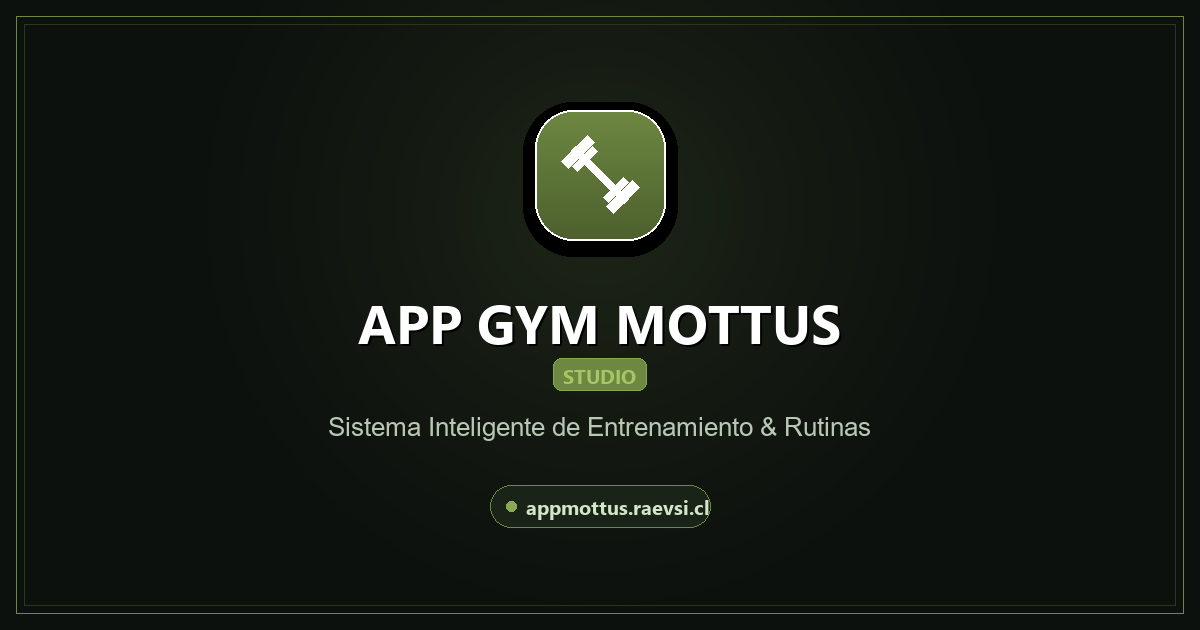
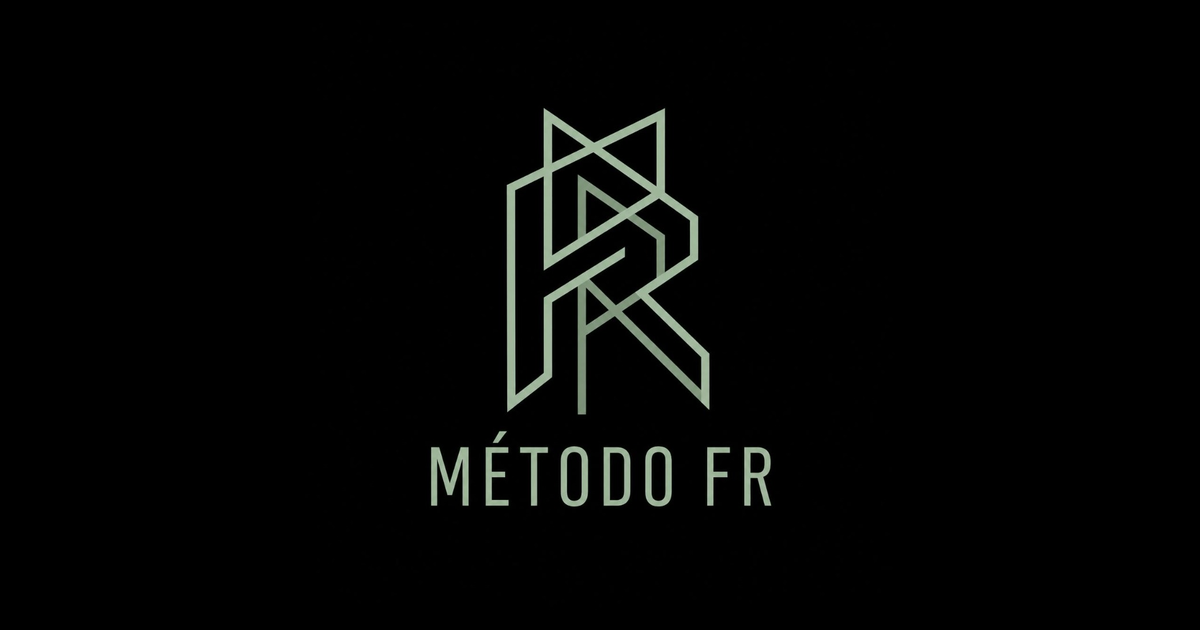
feat: initialize frontend application with core views, navigation, and messaging support

Changed region(s): [[0.2775, 0.0, 0.74, 0.8444]]

diff --git a/frontend/index.html b/frontend/index.html
@@ -1,54 +1,62 @@
 <!doctype html>
 <html lang="es">
-  <head>
-    <meta charset="UTF-8" />
-    <meta name="viewport" content="width=device-width, initial-scale=1.0, viewport-fit=cover" />
-    <meta name="mobile-web-app-capable" content="yes" />
-    <meta name="apple-mobile-web-app-capable" content="yes" />
-    <meta name="apple-mobile-web-app-status-bar-style" content="black-translucent" />
 
-    <!-- Primary Meta Tags -->
-    <title>App Gym Mottus - Sistema Inteligente de Entrenamiento &amp; Rutinas</title>
-    <meta name="title" content="App Gym Mottus - Sistema Inteligente de Entrenamiento &amp; Rutinas" />
-    <meta name="description" content="App Gym Mottus - Sistema Inteligente de Entrenamiento, Rutinas Personalizadas y Métricas Deportivas en Mottus Studio." />
-    <meta name="keywords" content="Mottus, Gym, Rutinas, Entrenamiento, Fitness, Ejercicios, Studio, Gimnasio" />
-    <meta name="author" content="Mottus Studio" />
-    <meta name="robots" content="index, follow" />
-    <meta name="theme-color" content="#4D602E" />
+<head>
+  <meta charset="UTF-8" />
+  <meta name="viewport" content="width=device-width, initial-scale=1.0, viewport-fit=cover" />
+  <meta name="mobile-web-app-capable" content="yes" />
+  <meta name="apple-mobile-web-app-capable" content="yes" />
+  <meta name="apple-mobile-web-app-status-bar-style" content="black-translucent" />
 
-    <!-- Favicon & Icons -->
-    <link rel="icon" type="image/svg+xml" href="/favicon.svg" />
-    <link rel="apple-touch-icon" href="/favicon.svg" />
+  <!-- Primary Meta Tags -->
+  <title>Método FR - Sistema Inteligente de Entrenamiento &amp; Rutinas</title>
+  <meta name="title" content="Método FR - Sistema Inteligente de Entrenamiento &amp; Rutinas" />
+  <meta name="description"
+    content="Método FR - Sistema Inteligente de Entrenamiento, Rutinas Personalizadas y Métricas Deportivas." />
+  <meta name="keywords" content="Método FR, Fitness, Rutinas, Entrenamiento, Ejercicios, Studio, Gimnasio" />
+  <meta name="author" content="Método FR" />
+  <meta name="robots" content="index, follow" />
+  <meta name="theme-color" content="#4D602E" />
 
-    <!-- Open Graph / WhatsApp / Facebook / LinkedIn -->
-    <meta property="og:type" content="website" />
-    <meta property="og:url" content="https://appmottus.raevsi.cl/" />
-    <meta property="og:title" content="App Gym Mottus" />
-    <meta property="og:site_name" content="App Gym Mottus" />
-    <meta property="og:description" content="Sistema Inteligente de Entrenamiento, Rutinas Personalizadas y Seguimiento Deportivo - Mottus Studio." />
-    <meta property="og:image" content="https://appmottus.raevsi.cl/og-image.png" />
-    <meta property="og:image:secure_url" content="https://appmottus.raevsi.cl/og-image.png" />
-    <meta property="og:image:type" content="image/png" />
-    <meta property="og:image:width" content="1200" />
-    <meta property="og:image:height" content="630" />
-    <meta property="og:image:alt" content="App Gym Mottus Studio" />
-    <meta property="og:locale" content="es_CL" />
+  <!-- Favicon & Icons -->
+  <link rel="icon" type="image/png" sizes="32x32" href="/favicon-32x32.png" />
+  <link rel="icon" type="image/png" sizes="64x64" href="/favicon.png" />
+  <link rel="shortcut icon" href="/favicon.ico" />
+  <link rel="apple-touch-icon" sizes="180x180" href="/apple-touch-icon.png" />
 
-    <!-- Twitter / X -->
-    <meta name="twitter:card" content="summary_large_image" />
-    <meta name="twitter:url" content="https://appmottus.raevsi.cl/" />
-    <meta name="twitter:title" content="App Gym Mottus" />
-    <meta name="twitter:description" content="Sistema Inteligente de Entrenamiento, Rutinas Personalizadas y Seguimiento Deportivo - Mottus Studio." />
-    <meta name="twitter:image" content="https://appmottus.raevsi.cl/og-image.png" />
-    <meta name="twitter:image:alt" content="App Gym Mottus Studio" />
+  <!-- Open Graph / WhatsApp / Facebook / LinkedIn -->
+  <meta property="og:type" content="website" />
+  <meta property="og:url" content="https://appmottus.raevsi.cl/" />
+  <meta property="og:title" content="Método FR" />
+  <meta property="og:site_name" content="Método FR" />
+  <meta property="og:description"
+    content="Sistema Inteligente de Entrenamiento, Rutinas Personalizadas y Seguimiento Deportivo - Método FR." />
+  <meta property="og:image" content="https://appmottus.raevsi.cl/og-image.png" />
+  <meta property="og:image:secure_url" content="https://appmottus.raevsi.cl/og-image.png" />
+  <meta property="og:image:type" content="image/png" />
+  <meta property="og:image:width" content="1200" />
+  <meta property="og:image:height" content="630" />
+  <meta property="og:image:alt" content="Método FR - Sistema Inteligente de Entrenamiento" />
+  <meta property="og:locale" content="es_CL" />
 
-    <!-- Mobile & PWA tags -->
-    <meta name="apple-mobile-web-app-capable" content="yes" />
-    <meta name="apple-mobile-web-app-status-bar-style" content="black-translucent" />
-    <meta name="apple-mobile-web-app-title" content="App Gym Mottus" />
-  </head>
-  <body>
-    <div id="root"></div>
-    <script type="module" src="/src/main.jsx"></script>
-  </body>
+  <!-- Twitter / X -->
+  <meta name="twitter:card" content="summary_large_image" />
+  <meta name="twitter:url" content="https://appmottus.raevsi.cl/" />
+  <meta name="twitter:title" content="Método FR" />
+  <meta name="twitter:description"
+    content="Sistema Inteligente de Entrenamiento, Rutinas Personalizadas y Seguimiento Deportivo - Método FR." />
+  <meta name="twitter:image" content="https://appmottus.raevsi.cl/og-image.png" />
+  <meta name="twitter:image:alt" content="Método FR" />
+
+  <!-- Mobile & PWA tags -->
+  <meta name="apple-mobile-web-app-capable" content="yes" />
+  <meta name="apple-mobile-web-app-status-bar-style" content="black-translucent" />
+  <meta name="apple-mobile-web-app-title" content="Método FR" />
+</head>
+
+<body>
+  <div id="root"></div>
+  <script type="module" src="/src/main.jsx"></script>
+</body>
+
 </html>

diff --git a/frontend/src/views/RegisterView.jsx b/frontend/src/views/RegisterView.jsx
@@ -75,7 +75,7 @@ export const RegisterView = ({ token, onRegistered }) => {
   if (validating) {
     return (
       <div style={{ minHeight: '100vh', display: 'flex', alignItems: 'center', justifyContent: 'center', backgroundColor: 'var(--md-sys-color-background)' }}>
-        <p style={{ color: 'var(--md-sys-color-tertiary)' }}>Verificando enlace de invitación Mottus Gym...</p>
+        <p style={{ color: 'var(--md-sys-color-tertiary)' }}>Verificando enlace de invitación Método FR...</p>
       </div>
     );
   }
@@ -102,7 +102,7 @@ export const RegisterView = ({ token, onRegistered }) => {
           <CheckCircle2 size={54} color="var(--md-sys-color-secondary)" style={{ margin: '0 auto 16px' }} />
           <h2 style={{ fontSize: '24px', fontWeight: 800, color: '#FFF', marginBottom: '8px' }}>¡Registro Completado!</h2>
           <p style={{ fontSize: '15px', color: 'var(--md-sys-color-tertiary)', marginBottom: '16px' }}>
-            Bienvenido a <strong>Mottus Gym</strong>, {name}. Tu cuenta ha sido activada con éxito.
+            Bienvenido a <strong>Método FR</strong>, {name}. Tu cuenta ha sido activada con éxito.
           </p>
           <span style={{ fontSize: '13px', color: 'var(--md-sys-color-on-surface-variant)' }}>
             Redirigiendo a la pantalla de inicio de sesión...
@@ -118,20 +118,22 @@ export const RegisterView = ({ token, onRegistered }) => {
     }}>
       <div className="auth-card" style={{ maxWidth: '560px' }}>
         <div style={{ textAlign: 'center', marginBottom: '28px' }}>
-          <div style={{
-            width: '56px',
-            height: '56px',
-            borderRadius: '16px',
-            backgroundColor: 'var(--md-sys-color-primary)',
-            display: 'inline-flex',
-            alignItems: 'center',
-            justifyContent: 'center',
-            marginBottom: '12px'
-          }}>
-            <Dumbbell size={30} color="#FFF" />
-          </div>
+          <img
+            src="/logo-metodo-fr.png"
+            alt="Logo Método FR"
+            style={{
+              width: '74px',
+              height: '74px',
+              borderRadius: '16px',
+              objectFit: 'contain',
+              boxShadow: '0 4px 20px rgba(0, 0, 0, 0.6), 0 0 16px rgba(110, 136, 66, 0.3)',
+              border: '1px solid rgba(137, 168, 84, 0.3)',
+              backgroundColor: '#000',
+              marginBottom: '12px'
+            }}
+          />
           <h1 style={{ fontSize: '24px', fontWeight: 800, color: '#FFF' }}>
-            Bienvenido a Mottus Gym
+            Bienvenido a Método FR
           </h1>
           <p style={{ fontSize: '13.5px', color: 'var(--md-sys-color-tertiary)', marginTop: '4px' }}>
             Completa tus datos para activar tu cuenta de entrenamiento
@@ -211,7 +213,7 @@ export const RegisterView = ({ token, onRegistered }) => {
               <input
                 type="email"
                 required
-                placeholder="ejemplo@mottus.cl"
+                placeholder="ejemplo@email.com"
                 value={email}
                 onChange={(e) => setEmail(e.target.value)}
                 style={inputStyle}

diff --git a/frontend/src/views/LoginView.jsx b/frontend/src/views/LoginView.jsx
@@ -40,43 +40,29 @@ export const LoginView = () => {
     }}>
       <div className="auth-card">
         {/* Header Branding */}
-        <div style={{ textAlign: 'center', marginBottom: '32px' }}>
-          <div style={{
-            width: '60px',
-            height: '60px',
-            borderRadius: '18px',
-            background: 'linear-gradient(135deg, #6E8842 0%, #4D602E 100%)',
-            display: 'inline-flex',
-            alignItems: 'center',
-            justifyContent: 'center',
-            boxShadow: '0 0 24px rgba(110, 136, 66, 0.5), inset 0 1px 1px rgba(255, 255, 255, 0.3)',
-            marginBottom: '16px'
-          }}>
-            <Dumbbell size={32} color="#FFFFFF" />
-          </div>
+        <div style={{ textAlign: 'center', marginBottom: '28px' }}>
+          <img
+            src="/logo-metodo-fr.png"
+            alt="Logo Método FR"
+            style={{
+              width: '90px',
+              height: '90px',
+              borderRadius: '20px',
+              objectFit: 'contain',
+              boxShadow: '0 8px 32px rgba(0, 0, 0, 0.7), 0 0 24px rgba(110, 136, 66, 0.35)',
+              border: '1px solid rgba(137, 168, 84, 0.35)',
+              backgroundColor: '#000',
+              marginBottom: '16px'
+            }}
+          />
           <div style={{ display: 'flex', alignItems: 'center', justifyContent: 'center', gap: '8px' }}>
             <h1 style={{ fontSize: '26px', fontWeight: 800, color: '#FFF', letterSpacing: '-0.02em' }}>
-              MOTTUS
+              MÉTODO FR
             </h1>
-            <span style={{
-              fontSize: '11px',
-              fontWeight: 700,
-              color: 'var(--md-sys-color-primary-light)',
-              letterSpacing: '0.12em',
-              backgroundColor: 'rgba(110, 136, 66, 0.15)',
-              padding: '2px 8px',
-              borderRadius: '6px',
-              border: '1px solid rgba(110, 136, 66, 0.3)'
-            }}>
-              STUDIO
-            </span>
           </div>
           <p style={{ fontSize: '13.5px', color: 'var(--md-sys-color-tertiary)', marginTop: '6px' }}>
             Sistema Inteligente de Entrenamiento & Rutinas
           </p>
-          <span style={{ fontSize: '11px', color: 'var(--md-sys-color-on-surface-variant)', display: 'block', marginTop: '2px' }}>
-            appmottus.raevsi.cl
-          </span>
         </div>
 
         {/* Aviso de Cierre de Sesión por Inactividad (30 min) */}
@@ -147,7 +133,7 @@ export const LoginView = () => {
             <input
               type="text"
               required
-              placeholder="Ej: 12345678-9 o usuario@mottus.cl"
+              placeholder="Ej: 12345678-9 o tu email"
               value={identifier}
               onChange={(e) => setIdentifier(e.target.value)}
               style={{

diff --git a/frontend/src/components/Navbar.jsx b/frontend/src/components/Navbar.jsx
@@ -134,39 +134,28 @@ export const Navbar = ({ activeTab, setActiveTab }) => {
       }}>
         {/* Brand */}
         <div style={{ display: 'flex', alignItems: 'center', gap: '10px' }}>
-          <div style={{
-            width: '38px',
-            height: '38px',
-            borderRadius: '12px',
-            background: 'linear-gradient(135deg, #6E8842 0%, #4D602E 100%)',
-            display: 'flex',
-            alignItems: 'center',
-            justifyContent: 'center',
-            boxShadow: '0 0 16px rgba(110, 136, 66, 0.4), inset 0 1px 1px rgba(255, 255, 255, 0.25)',
-            flexShrink: 0
-          }}>
-            <Dumbbell size={20} color="#FFFFFF" />
-          </div>
+          <img
+            src="/logo-metodo-fr.png"
+            alt="Logo Método FR"
+            style={{
+              width: '38px',
+              height: '38px',
+              borderRadius: '10px',
+              objectFit: 'contain',
+              flexShrink: 0,
+              boxShadow: '0 0 14px rgba(110, 136, 66, 0.35)',
+              border: '1px solid rgba(137, 168, 84, 0.3)',
+              backgroundColor: '#000'
+            }}
+          />
           <div>
             <div style={{ display: 'flex', alignItems: 'center', gap: '6px' }}>
               <span style={{ fontSize: '18px', fontWeight: 800, letterSpacing: '-0.02em', color: '#FFF' }}>
-                MOTTUS
-              </span>
-              <span style={{
-                fontSize: '10px',
-                fontWeight: 700,
-                color: 'var(--md-sys-color-primary-light)',
-                letterSpacing: '0.1em',
-                backgroundColor: 'rgba(110, 136, 66, 0.15)',
-                padding: '2px 5px',
-                borderRadius: '5px',
-                border: '1px solid rgba(110, 136, 66, 0.3)'
-              }}>
-                STUDIO
+                MÉTODO FR
               </span>
             </div>
             <span className="navbar-brand-subtitle" style={{ fontSize: '11px', color: 'var(--md-sys-color-on-surface-variant)', display: 'block', letterSpacing: '0.02em' }}>
-              appmottus.raevsi.cl
+              Sistema de Entrenamiento
             </span>
           </div>
         </div>

diff --git a/frontend/src/views/MyRoutinesView.jsx b/frontend/src/views/MyRoutinesView.jsx
@@ -513,7 +513,7 @@ export const MyRoutinesView = () => {
               <Dumbbell size={52} color="var(--md-sys-color-secondary)" style={{ margin: '0 auto 16px' }} />
               <h3 style={{ fontSize: '20px', fontWeight: 700, color: '#FFF' }}>Aún no tienes rutinas programadas</h3>
               <p style={{ fontSize: '14px', color: 'var(--md-sys-color-on-surface-variant)', marginTop: '6px' }}>
-                Tu Coach de Mottus Gym te asignará una sesión muy pronto. ¡Mantente atento!
+                Tu Coach de Método FR te asignará una sesión muy pronto. ¡Mantente atento!
               </p>
             </div>
           ) : (
@@ -597,7 +597,7 @@ export const MyRoutinesView = () => {
                     </h2>
                     {routine.coach && (
                       <span style={{ fontSize: '12px', color: 'var(--md-sys-color-on-surface-variant)' }}>
-                        Coach: <strong>{routine.coach.name || 'Coach Mottus'}</strong>
+                        Coach: <strong>{routine.coach.name || 'Coach Método FR'}</strong>
                       </span>
                     )}
 

diff --git a/frontend/src/components/DirectMessagesModal.jsx b/frontend/src/components/DirectMessagesModal.jsx
@@ -272,7 +272,7 @@ export const DirectMessagesModal = ({ isOpen, onClose, user, initialStudentId = 
             }}>
               <div>
                 <span style={{ fontSize: '14px', fontWeight: 700, color: '#FFF' }}>
-                  {isStudent ? 'Coach Mottus' : (selectedStudent?.name || selectedStudent?.rut || 'Seleccione un alumno')}
+                  {isStudent ? 'Coach Método FR' : (selectedStudent?.name || selectedStudent?.rut || 'Seleccione un alumno')}
                 </span>
                 {!isStudent && selectedStudent && (
                   <span style={{ fontSize: '11px', color: 'var(--md-sys-color-tertiary)', marginLeft: '8px' }}>

diff --git a/frontend/src/App.jsx b/frontend/src/App.jsx
@@ -39,7 +39,7 @@ const AppContent = () => {
         backgroundColor: 'var(--md-sys-color-background)',
         color: 'var(--md-sys-color-tertiary)'
       }}>
-        Cargando Mottus Gym...
+        Cargando Método FR...
       </div>
     );
   }
